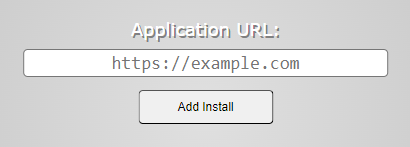
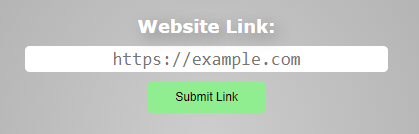
Release 4/28

diff --git a/index.html b/index.html
@@ -39,14 +39,12 @@
         <textarea readonly id = 'appList' class = 'centered'></textarea>
 
         <div style = 'display: flex; justify-content: center;'>
-            <button onclick = 'loadFromCookies()' class = 'basicButton' style = 'background-color: lightblue; margin-right: 20px;'>Load Links From Browser</button>
-            <button class = 'basicButton' style = 'background-color: lightcoral; margin-right: 20px;'>Run Installer</button>
-            <button onclick = 'saveToCookies()' class = 'basicButton' style = 'background-color: lightsalmon;'>Save List To Browser</button>
+            <input type = 'button' onclick = 'runInstaller()' class = 'basicButton' style = 'background-color: lightcoral;' value = 'Run Installer'>
         </div> 
     </div>
 
     <p id = 'footer' class = 'basicText textShadow'>
-        Created By <a href = 'https://rhet0rical.dev'>Rhet0rical</a>. Release 4/27. Hosted On <a href = 'https://github.com/TheRhet0rical/Installr'>GitHub</a>.
+        Created By <a href = 'https://rhet0rical.dev'>Rhet0rical</a>. Currently Released On 4/28. Hosted On <a href = 'https://github.com/TheRhet0rical/Installr'>GitHub</a>.
     </p>
 
     <script src="script.js"></script>

diff --git a/script.js b/script.js
@@ -14,7 +14,8 @@ function submitLink(){
     if(link.includes('https://') == true && link != ''){
 
         appsList.push(link + '\n');
-        console.log(`Added \"${link}\" To appslist.`)
+        console.log(`Added \"${link}\" To appslist.`);
+        document.getElementById('urlTextArea').value = null;
         document.getElementById('appList').innerHTML = appsList;
         document.getElementById('appListTitle').innerHTML = `<strong>Application List (${appsList.length}):</strong>`
 
@@ -23,5 +24,11 @@ function submitLink(){
         console.error(`Link \"${link}\" Is Not A Valid URL. Check it and try again.`);
         alert(`The item you entered is not a URL. Ensure your URL contains \"https://\" or \"http://\" and try again.`);    
 
+    }
+}
+
+function runInstaller(){
+    for(i = 0; i < appsList.length; i++){
+        window.open(appsList[i]);
     }
 }

diff --git a/style.css b/style.css
@@ -75,7 +75,6 @@ html {
     padding-top: 30px; 
     padding-bottom: 5px;
 
-    position: fixed;
     bottom: 0%;
     width: 100%;
 }

diff --git a/README.md b/README.md
@@ -1,4 +1,4 @@
-# **Installr** ⬇ - *Version 1.1-4/27*
+# **Installr** ⬇ - *Release 4/28*
 Installr is a multi-application installer tool that gets rid of constantly installing multiple applications online.
 
 Instead of doing the grueling task of downloading the same 15 apps on your new computer, or multiple computers at a time, Installr gets rid of the time-consuming task of going to all these websites and condenses them into a one-time setup task that installs everything in the click of one button.
@@ -8,10 +8,13 @@ Since Installr is still in active development, some features will be implemented
 - [ ] **Download Caching** 💾 \
 This feature will need to get implemented because, without it, it completely renders this program useless.
 
-- [ ] **Major Rewrite** ✍ \
+- [ ] **Link Library** 📚 \
+Add a link library for people to upload and share lists of links for people to download.
+
+- [x] **Major Rewrite** ✍ \
 This entire project needs a rewrite since it was put together in a few hours, and the CSS is a mess and not easy to build off of.
 
-- [ ] **Style Change** 🦋 \
+- [x] **Style Change** 🦋 \
 Self-explanatory, just needs a facelift before I deem this finished
 
 ## **Instructions, In-Depth 🗣**
